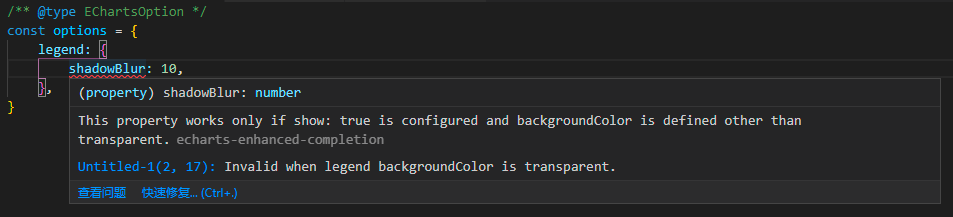
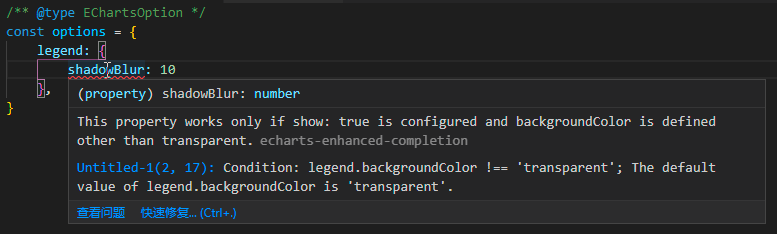
feat: 默认的依赖提示信息

diff --git a/src/diagnosis.ts b/src/diagnosis.ts
@@ -126,22 +126,36 @@ function checkDependRules(astItem: AstItem): vscode.Diagnostic[] {
                     });
                 }
                 rule.depends.forEach(dep => {
-                // 如果不满足规则，则添加至 relatedInformation
+                    // 如果不满足规则，则添加至 relatedInformation
                     const depNode = astItem.getAstNodeByKey(dep.key);
-                    if (
-                    // 节点存在并且不等于预期值
-                        (depNode && (dep as ExpectedDepend).expectedValue && depNode.value!.value as unknown as string !== (dep as ExpectedDepend).expectedValue)
-                    // 节点存在并且等于排除值
-                    || (depNode && (dep as ExcludeDepend).excludeValue && depNode.value!.value as unknown as string === (dep as ExcludeDepend).excludeValue)
-                    // 节点不存在并且默认值不等于预期值
-                    || (!depNode && (dep.defaultValue && dep.defaultValue !== (dep as ExpectedDepend).expectedValue))
-                    // 节点不存在并且默认值等于排除值
-                    || (!depNode && (!dep.defaultValue || dep.defaultValue === (dep as ExcludeDepend).excludeValue))
-                    ) {
-                        relatedInformation.push({
-                            location: new vscode.Location(astItem.document.uri, depNode ? astItem.getNodeKeyRange(depNode) : astItem.range),
-                            message: dep.msg,
-                        });
+                    if (depNode) {
+                        if ((dep as ExpectedDepend).expectedValue !== undefined && depNode.value!.value as unknown as string !== (dep as ExpectedDepend).expectedValue) {
+                            // 节点存在并且不等于预期值
+                            relatedInformation.push({
+                                location: new vscode.Location(astItem.document.uri, astItem.getNodeKeyRange(depNode)),
+                                message: dep.msg || `${localize('message.condition')}: ${dep.key} === ${getRawString((dep as ExpectedDepend).expectedValue)}`,
+                            });
+                        } else if ((dep as ExcludeDepend).excludeValue !== undefined && depNode.value!.value as unknown as string === (dep as ExcludeDepend).excludeValue) {
+                            // 节点存在并且等于排除值
+                            relatedInformation.push({
+                                location: new vscode.Location(astItem.document.uri, astItem.getNodeKeyRange(depNode)),
+                                message: dep.msg || `${localize('message.condition')}: ${dep.key} !== ${getRawString((dep as ExcludeDepend).excludeValue)}`,
+                            });
+                        }
+                    } else {
+                        if ((dep as ExpectedDepend).expectedValue !== undefined && dep.defaultValue !== undefined && dep.defaultValue !== (dep as ExpectedDepend).expectedValue) {
+                            // 节点不存在并且默认值不等于预期值
+                            relatedInformation.push({
+                                location: new vscode.Location(astItem.document.uri, astItem.range),
+                                message: dep.msg || `${localize('message.condition')}: ${dep.key} === ${getRawString(dep.defaultValue)}; ${localize('message.default-value', dep.key, getRawString(dep.defaultValue))}`,
+                            });
+                        } else if ((dep as ExcludeDepend).excludeValue !== undefined && (dep.defaultValue === undefined || dep.defaultValue === (dep as ExcludeDepend).excludeValue)) {
+                            // 节点不存在并且默认值等于排除值
+                            relatedInformation.push({
+                                location: new vscode.Location(astItem.document.uri, astItem.range),
+                                message: dep.msg || `${localize('message.condition')}: ${dep.key} !== ${getRawString((dep as ExcludeDepend).excludeValue)}; ${localize('message.default-value', dep.key, getRawString((dep as ExcludeDepend).excludeValue))}`,
+                            });
+                        }
                     }
                 });
                 if (relatedInformation.length) {
@@ -187,4 +201,9 @@ function isAllowCheck(document: vscode.TextDocument, position: vscode.Position):
         }
     }
     return true;
+}
+
+/** 获取值的真实显示 */
+function getRawString(v: string | number | boolean | null): string {
+    return typeof v === 'string' ? `'${v}'` : String(v);
 }

diff --git a/index.d.ts b/index.d.ts
@@ -87,7 +87,7 @@ interface ExpectedDepend {
     /** 目标预期值 */
     expectedValue: string | number | boolean | null;
     /** 依赖提示信息 */
-    msg: string;
+    msg?: string;
 }
 
 /** 排除依赖 */
@@ -99,7 +99,7 @@ interface ExcludeDepend {
     /** 目标排除值 */
     excludeValue: string | number | boolean | null;
     /** 依赖提示信息 */
-    msg: string;
+    msg?: string;
 }
 
 declare module 'simillar-commands' {

diff --git a/README.md b/README.md
@@ -76,7 +76,7 @@ interface ExpectedDepend {
     /** Default value. If not provided, it is equal to the `expectedValue` */
     defaultValue?: string | number | boolean | null;
     expectedValue: string | number | boolean | null;
-    msg: string;
+    msg?: string;
 }
 
 interface ExcludeDepend {
@@ -84,7 +84,7 @@ interface ExcludeDepend {
     /** Default value. If not provided, it is equal to the `excludeValue` */
     defaultValue?: string | number | boolean | null;
     excludeValue: string | number | boolean | null;
-    msg: string;
+    msg?: string;
 }
 ```
 
@@ -102,13 +102,11 @@ For example, this property works only if `show: true` is configured and `backgro
                     "key": "legend.show",
                     "defaultValue": true,
                     "expectedValue": true,
-                    "msg": "Does not take effect when the legend show is false.",
                 },
                 {
                     "key": "legend.backgroundColor",
                     "defaultValue": "transparent",
                     "excludeValue": "transparent",
-                    "msg": "Invalid when legend backgroundColor is transparent.",
                 },
             ],
         }

diff --git a/README_zh-cn.md b/README_zh-cn.md
@@ -80,7 +80,7 @@ interface ExpectedDepend {
     /** 目标预期值 */
     expectedValue: string | number | boolean | null;
     /** 依赖提示信息 */
-    msg: string;
+    msg?: string;
 }
 
 /** 排除依赖 */
@@ -92,7 +92,7 @@ interface ExcludeDepend {
     /** 目标排除值 */
     excludeValue: string | number | boolean | null;
     /** 依赖提示信息 */
-    msg: string;
+    msg?: string;
 }
 ```
 
@@ -110,13 +110,11 @@ interface ExcludeDepend {
                     "key": "legend.show",
                     "defaultValue": true,
                     "expectedValue": true,
-                    "msg": "不显示图例组件时不生效",
                 },
                 {
                     "key": "legend.backgroundColor",
                     "defaultValue": "transparent",
                     "excludeValue": "transparent",
-                    "msg": "图例组件背景色透明时无效",
                 },
             ],
         }
